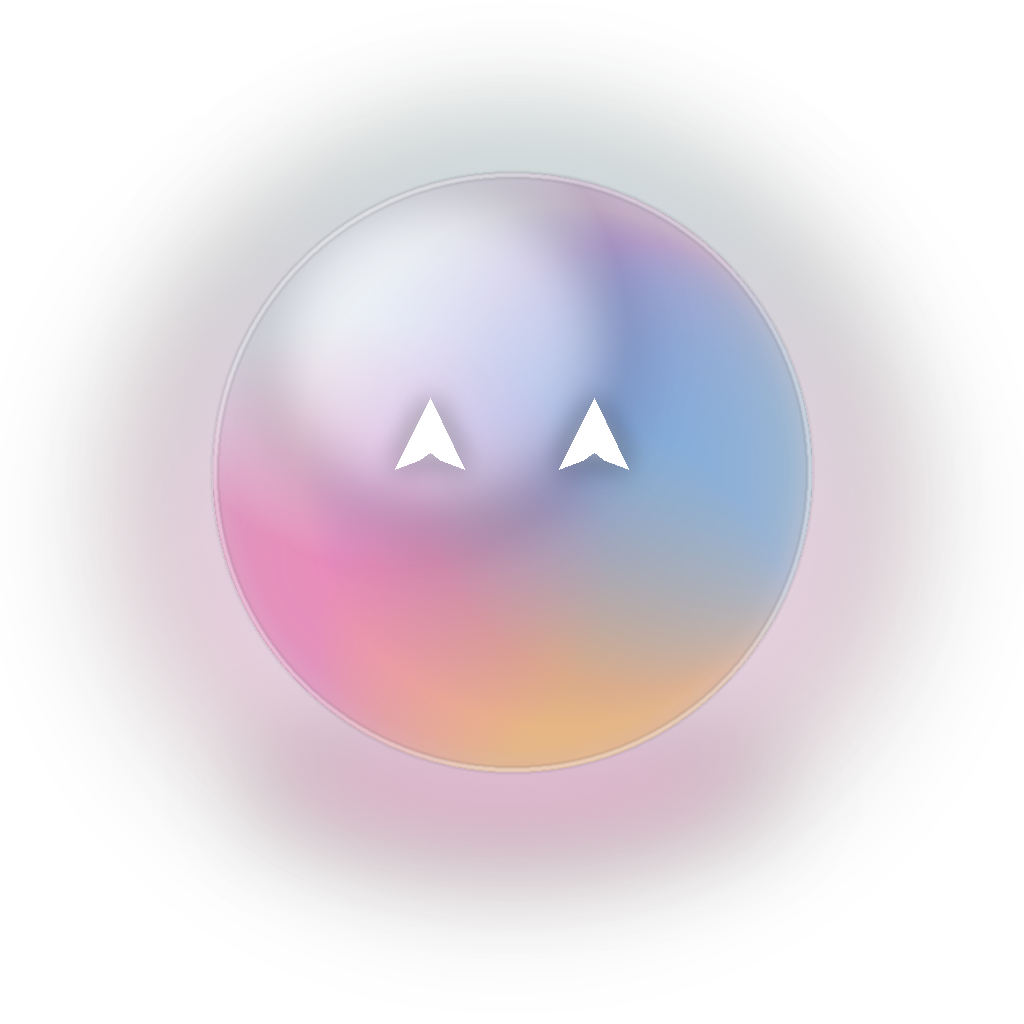
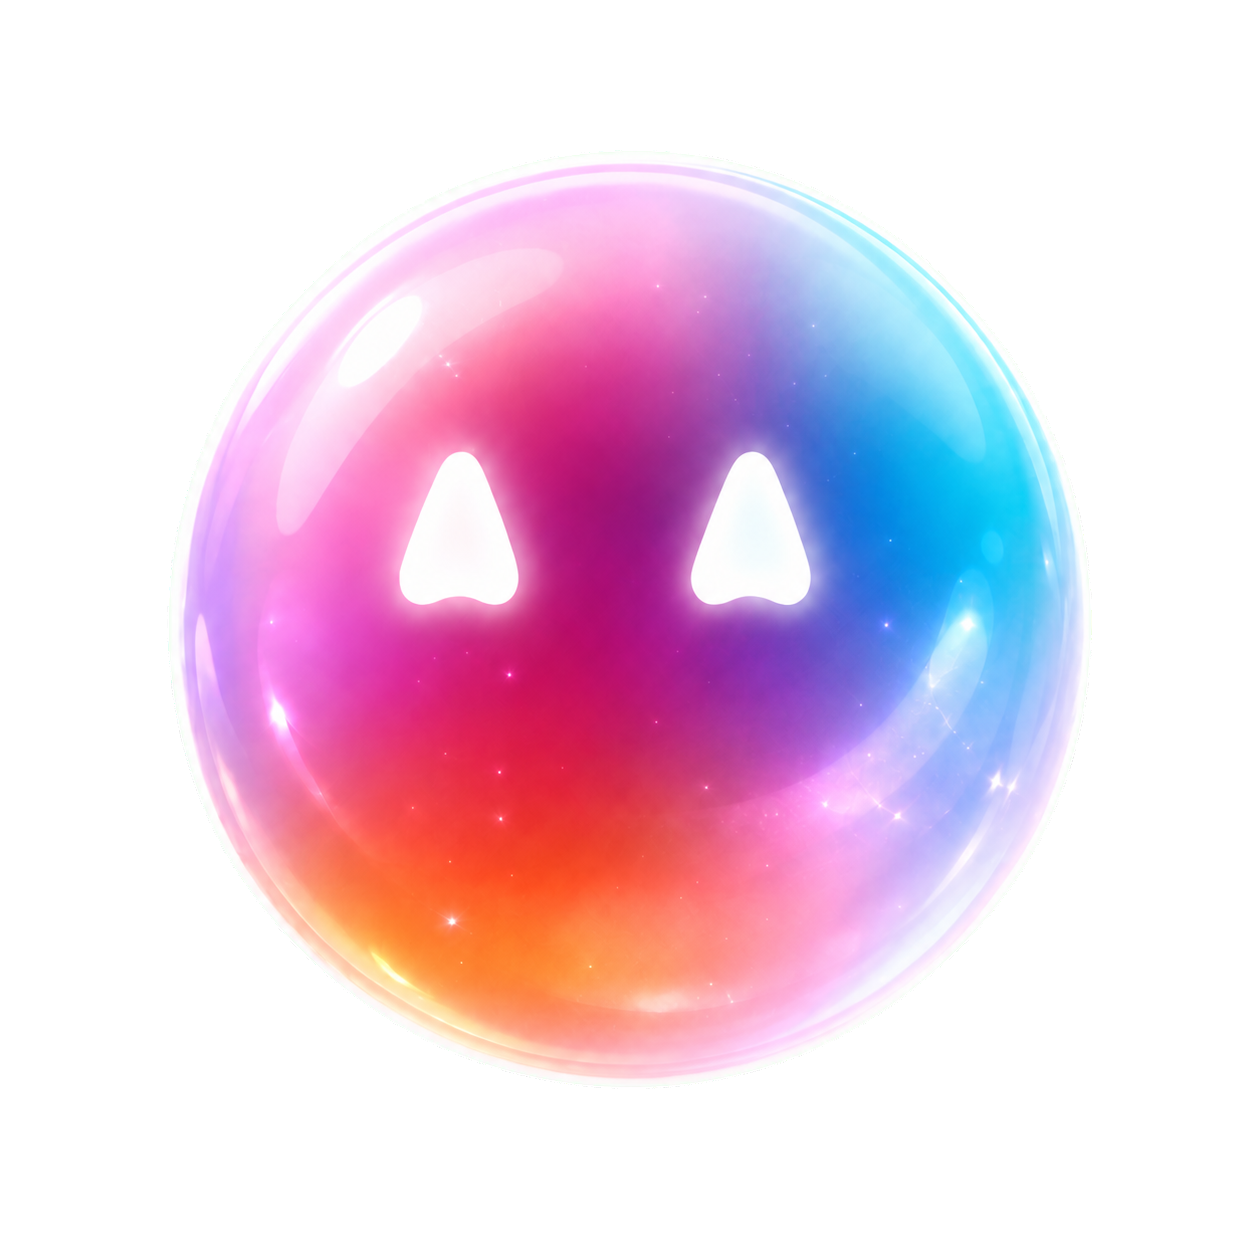
Refine AI assistant welcome screen

diff --git a/frontend/lib/screen/base/ai_chat_screen.dart b/frontend/lib/screen/base/ai_chat_screen.dart
@@ -151,74 +151,49 @@ class _AiChatScreenState extends State<AiChatScreen> {
 
   Widget _hero() {
     return Container(
-      height: 650,
-      padding: const EdgeInsets.fromLTRB(22, 22, 22, 24),
+      height: 680,
+      padding: const EdgeInsets.fromLTRB(22, 42, 22, 28),
       decoration: BoxDecoration(
-        color: AppPalette.paper.withOpacity(0.88),
-        borderRadius: BorderRadius.circular(34),
-        border: Border.all(color: Colors.white.withOpacity(0.84), width: 1.4),
+        color: const Color(0xFFFDFDFB),
+        borderRadius: BorderRadius.circular(38),
+        border: Border.all(color: Colors.white.withOpacity(0.92), width: 1.6),
         boxShadow: [
           BoxShadow(
-            color: AppPalette.moodBlue.withOpacity(0.08),
-            blurRadius: 30,
-            offset: const Offset(0, 18),
+            color: AppPalette.moodBlue.withOpacity(0.10),
+            blurRadius: 36,
+            offset: const Offset(0, 22),
           ),
         ],
       ),
       child: Column(
         children: [
-          Row(
-            children: [
-              Container(
-                width: 48,
-                height: 48,
-                decoration: BoxDecoration(
-                  color: AppPalette.mint.withOpacity(0.58),
-                  borderRadius: BorderRadius.circular(20),
-                ),
-                child: const Icon(
-                  Icons.auto_awesome_rounded,
-                  color: AppPalette.inkBlue,
-                  size: 21,
-                ),
-              ),
-              const Spacer(),
-              Container(
-                padding:
-                    const EdgeInsets.symmetric(horizontal: 14, vertical: 9),
-                decoration: BoxDecoration(
-                  color: AppPalette.mint.withOpacity(0.24),
-                  borderRadius: BorderRadius.circular(999),
-                ),
-                child: const Text(
-                  'Study Pulse',
-                  style: TextStyle(
-                    color: AppPalette.textPrimary,
-                    fontSize: 12,
-                    fontWeight: FontWeight.w800,
-                  ),
-                ),
-              ),
-            ],
-          ),
-          const SizedBox(height: 26),
           const _HeroTitle(),
-          const SizedBox(height: 18),
-          Stack(
-            clipBehavior: Clip.none,
-            alignment: Alignment.center,
-            children: const [
-              _FloatingSlimeOrb(size: 226),
-              Positioned(
-                top: 16,
-                left: 28,
-                child: _HelloBubble(),
-              ),
-            ],
+          const SizedBox(height: 30),
+          SizedBox(
+            height: 320,
+            child: Stack(
+              clipBehavior: Clip.none,
+              alignment: Alignment.center,
+              children: const [
+                Positioned(
+                  bottom: 12,
+                  child: _OrbFloorGlow(),
+                ),
+                Positioned(
+                  top: 18,
+                  child: _FloatingSlimeOrb(size: 266),
+                ),
+                Positioned(
+                  top: 34,
+                  left: 42,
+                  child: _HelloBubble(),
+                ),
+              ],
+            ),
           ),
-          const SizedBox(height: 12),
+          const SizedBox(height: 4),
           const Text(
-            'Get instant help and support\nwith any question or problem',
+            'Get instant help and support\nwith any task or problem',
             textAlign: TextAlign.center,
             style: TextStyle(
               color: AppPalette.textSecondary,
@@ -230,35 +205,43 @@ class _AiChatScreenState extends State<AiChatScreen> {
           const SizedBox(height: 20),
           GestureDetector(
             onTap: () => _send('帮我把这道错题拆成三步讲清楚'),
-            child: Container(
-              width: double.infinity,
-              padding: const EdgeInsets.symmetric(vertical: 18),
-              decoration: BoxDecoration(
-                color: Colors.white.withOpacity(0.92),
-                borderRadius: BorderRadius.circular(26),
-                boxShadow: [
-                  BoxShadow(
-                    color: AppPalette.inkBlue.withOpacity(0.06),
-                    blurRadius: 18,
-                    offset: const Offset(0, 10),
+            child: Center(
+              child: ConstrainedBox(
+                constraints: const BoxConstraints(maxWidth: 320),
+                child: Container(
+                  width: double.infinity,
+                  padding: const EdgeInsets.symmetric(vertical: 18),
+                  decoration: BoxDecoration(
+                    color: Colors.white.withOpacity(0.96),
+                    borderRadius: BorderRadius.circular(30),
+                    boxShadow: [
+                      BoxShadow(
+                        color: AppPalette.inkBlue.withOpacity(0.07),
+                        blurRadius: 24,
+                        offset: const Offset(0, 12),
+                      ),
+                    ],
                   ),
-                ],
-              ),
-              child: const Row(
-                mainAxisAlignment: MainAxisAlignment.center,
-                children: [
-                  Text(
-                    'Get started',
-                    style: TextStyle(
-                      color: AppPalette.textPrimary,
-                      fontSize: 15,
-                      fontWeight: FontWeight.w800,
-                    ),
+                  child: const Row(
+                    mainAxisAlignment: MainAxisAlignment.center,
+                    children: [
+                      Text(
+                        'Get started',
+                        style: TextStyle(
+                          color: AppPalette.textPrimary,
+                          fontSize: 15,
+                          fontWeight: FontWeight.w800,
+                        ),
+                      ),
+                      SizedBox(width: 12),
+                      Icon(
+                        Icons.arrow_forward_rounded,
+                        color: AppPalette.textPrimary,
+                        size: 21,
+                      ),
+                    ],
                   ),
-                  SizedBox(width: 10),
-                  Icon(Icons.arrow_forward_rounded,
-                      color: AppPalette.textPrimary, size: 20),
-                ],
+                ),
               ),
             ),
           ),
@@ -296,6 +279,8 @@ class _AiChatScreenState extends State<AiChatScreen> {
 class _HeroTitle extends StatelessWidget {
   const _HeroTitle();
 
+  static const Color _accent = Color(0xFF6257D9);
+
   @override
   Widget build(BuildContext context) {
     return RichText(
@@ -303,7 +288,7 @@ class _HeroTitle extends StatelessWidget {
       text: const TextSpan(
         style: TextStyle(
           color: AppPalette.textPrimary,
-          fontSize: 34,
+          fontSize: 36,
           height: 1.08,
           fontWeight: FontWeight.w900,
           letterSpacing: 0,
@@ -312,9 +297,9 @@ class _HeroTitle extends StatelessWidget {
           TextSpan(text: 'Your '),
           TextSpan(
             text: 'Smart\nAssistant',
-            style: TextStyle(color: AppPalette.moodBlue),
+            style: TextStyle(color: _accent),
           ),
-          TextSpan(text: ' for\nStudy Tasks'),
+          TextSpan(text: ' for\nAny Tasks'),
         ],
       ),
     );
@@ -326,26 +311,82 @@ class _HelloBubble extends StatelessWidget {
 
   @override
   Widget build(BuildContext context) {
+    return Stack(
+      clipBehavior: Clip.none,
+      children: [
+        Container(
+          padding: const EdgeInsets.symmetric(horizontal: 22, vertical: 11),
+          decoration: BoxDecoration(
+            color: Colors.white.withOpacity(0.94),
+            borderRadius: BorderRadius.circular(24),
+            boxShadow: [
+              BoxShadow(
+                color: AppPalette.inkBlue.withOpacity(0.06),
+                blurRadius: 14,
+                offset: const Offset(0, 7),
+              ),
+            ],
+          ),
+          child: const Text(
+            'Hello!',
+            style: TextStyle(
+              color: AppPalette.textPrimary,
+              fontSize: 16,
+              fontWeight: FontWeight.w700,
+            ),
+          ),
+        ),
+        Positioned(
+          right: 14,
+          bottom: -8,
+          child: Transform.rotate(
+            angle: 0.8,
+            child: Container(
+              width: 18,
+              height: 18,
+              decoration: BoxDecoration(
+                color: Colors.white.withOpacity(0.94),
+                borderRadius: BorderRadius.circular(4),
+              ),
+            ),
+          ),
+        ),
+      ],
+    );
+  }
+}
+
+class _OrbFloorGlow extends StatelessWidget {
+  const _OrbFloorGlow();
+
+  @override
+  Widget build(BuildContext context) {
     return Container(
-      padding: const EdgeInsets.symmetric(horizontal: 17, vertical: 10),
+      width: 260,
+      height: 70,
       decoration: BoxDecoration(
-        color: Colors.white.withOpacity(0.88),
-        borderRadius: BorderRadius.circular(22),
+        borderRadius: BorderRadius.circular(999),
+        gradient: LinearGradient(
+          colors: [
+            const Color(0xFFF2A0C7).withOpacity(0.22),
+            const Color(0xFF776AE6).withOpacity(0.16),
+            const Color(0xFF92E4F3).withOpacity(0.10),
+          ],
+        ),
         boxShadow: [
           BoxShadow(
-            color: AppPalette.inkBlue.withOpacity(0.05),
-            blurRadius: 12,
-            offset: const Offset(0, 6),
+            color: const Color(0xFFEA9FCC).withOpacity(0.38),
+            blurRadius: 34,
+            spreadRadius: 10,
+            offset: const Offset(-18, 4),
+          ),
+          BoxShadow(
+            color: const Color(0xFF8372E8).withOpacity(0.22),
+            blurRadius: 36,
+            spreadRadius: 8,
+            offset: const Offset(28, 8),
           ),
         ],
-      ),
-      child: const Text(
-        'Hello!',
-        style: TextStyle(
-          color: AppPalette.textPrimary,
-          fontSize: 14,
-          fontWeight: FontWeight.w700,
-        ),
       ),
     );
   }
